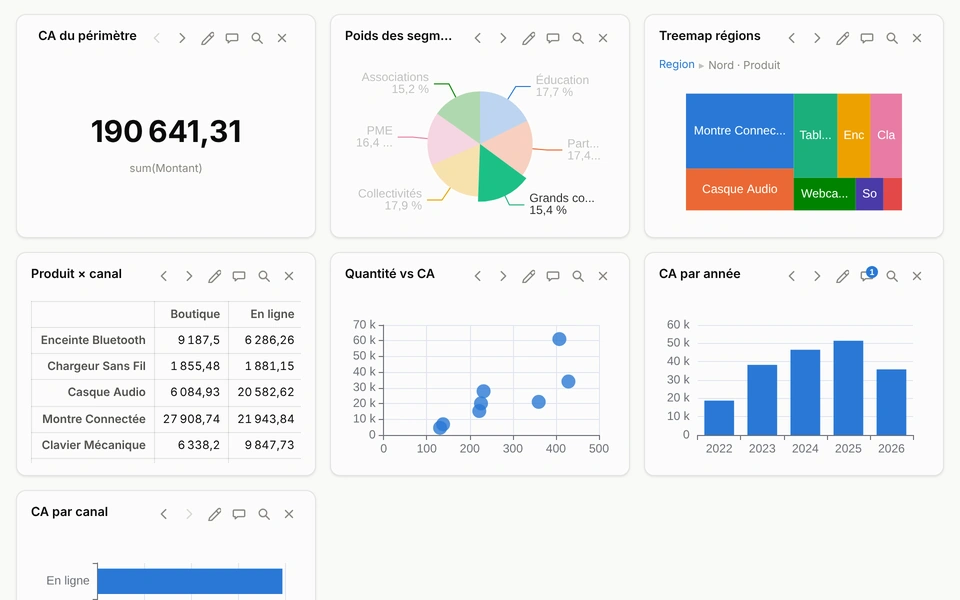
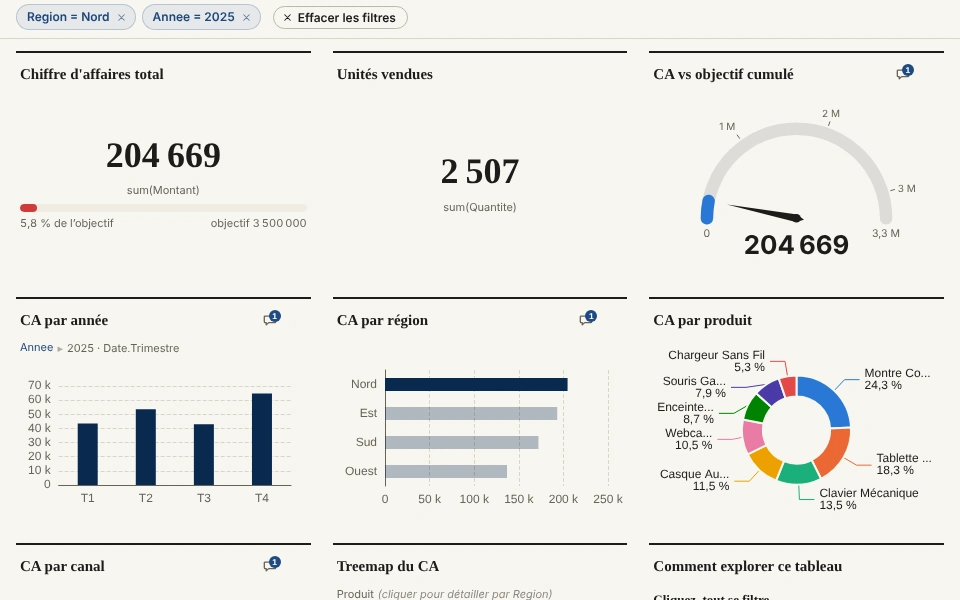
Vitrine GFS : trois captures refaites avec l'interface actuelle et des styles variés
Les trois images de vitrine/ montraient l'interface d'avant la refonte. Refaites sous
les mêmes noms et à la même taille (960 x 600, 50 à 54 Ko) : Verre dépoli + Planche,
Éditorial avec filtre croisé et drill-down, Console. Légendes 1 et 3 mises à jour dans
vitrine.json. GFS-ETAT.md dit à GFS de recopier vitrine/ (empreintes SHA-256 données) ;
HYPOTHESES.md note les choix et la réserve (faux Grist, pas un vrai).

Claude-Session: https://claude.ai/code/session_01TbSoW55bqFQ1Rzn6aBGi62

diff --git a/HYPOTHESES.md b/HYPOTHESES.md
@@ -3449,6 +3449,19 @@ Dernier lot de l'audit : tout ce qui, hors des nombres eux-mêmes, rendait une t
 - **Testé** : Node (bloc « radarNameRoom » : 7 tailles de zone, avec et sans légende, 3 à 12 axes, place bornée, le nom posé à côté de son sommet reste dans la tuile, l'ancien cas de 330 x 190) ;
   Playwright contre le vrai `index.html` + `grist-stub.js` : radar « CA par produit » en Console et en Standard (nom entier visible), radar d'orientation avec légende. **Pas testé dans un vrai Grist.**
 
+### Vitrine GFS refaite avec les styles et les dispositions (18/11/2026)
+
+- **Demande d'Antoine** : « refaire des screen pour le message du forum et les captures GFS en utilisant les styles différents ». Les trois images de `vitrine/` (remplacées une première fois le 18/11 pour la PR #53) montraient
+  encore l'interface d'AVANT la refonte (barre de menus, panneau « Ajouter », styles, dispositions) : la « Limite » notée en tête de ce journal est donc levée. Mêmes noms (`1.webp`, `2.webp`, `3.webp`), mêmes 960 x 600,
+  49 976 / 52 954 / 54 370 octets (WebP qualité 92 à 96, méthode 6), données du jeu d'exemple anonymisé (aucun nom de personne ; les commentaires sont de groupes). Prises depuis `main` à `29b7cbd` (styles #113, Soleil #112
+  et noms d'axe du radar #114 compris).
+- **Choix** : 1 = « Verre dépoli » + disposition « Planche » (vue d'ensemble : chiffres, jauge, barres, aire empilée) ; 2 = « Éditorial » en grille, clic sur « Nord » puis 2025 (filtre croisé : puces de filtre, barres non retenues grisées, drill-down
+  de l'année vers le trimestre) ; 3 = « Console » (toujours sombre, page « Analyse avancée »). L'éditorial et la console ont été préférés au verre et au fluide pour le filtre croisé : en pastel, une barre à 0,3 d'opacité se distingue à peine de
+  ses voisines. La tuile « Aire empilée » est retirée de la scène 2 (une aire filtrée sur une seule année n'a qu'un point) ; c'est un réglage de la capture, pas un défaut à corriger.
+- **Retouches de cadrage** : 960 px de large (la barre perd ses libellés, mais on ne la voit pas : la capture démarre sous elle), image coupée à la tuile, jamais mise à l'échelle ; la scène 2 démarre juste sous la barre pour ne pas montrer le bas de ses boutons.
+- **Réserve inchangée** : le vrai `index.html` + le faux Grist du dépôt, PAS un vrai Grist ; l'interface est celle qu'on verrait, le comportement de `grist.docApi` n'est pas prouvé. Les scripts de prise de vue ne sont pas committés (même règle que toute la suite
+  Playwright) ; ils sont dans le dossier partagé du projet (`forum/captures-scripts/`). Il reste à GFS de recopier `vitrine/` chez lui (voir `GFS-ETAT.md`).
+
 ### Jauge : graduations à l'extérieur de l'arc (18/11/2026)
 
 Point de départ : sur la capture « après » du lot 2 de l'audit de lisibilité, Antoine remarque que la jauge « semble perdre les graduations intermédiaires » et propose de les rajouter, « peut-être à l'extérieur ».

diff --git a/GFS-ETAT.md b/GFS-ETAT.md
@@ -320,6 +320,13 @@ Mis à jour le 2026-11-18 (consignes 019 à 021 : « Nuage de mots » branchée 
   Publipostage+ viendra par une consigne de ta part, pas avant.
 
 ## Changements qui touchent GFS
+- 2026-11-18 · **Vitrine refaite : les trois captures de `vitrine/` sont remplacées** (même dossier, mêmes noms `1.webp`, `2.webp`, `3.webp`, même taille 960 × 600, de 49 976 à 54 370 octets, donc sous les 60 Ko ;
+  `vitrine.json` : légendes 1 et 3 changées, la 2 reste vraie, description inchangée, toujours ≤ 280 / ≤ 60 signes fr/en). Les anciennes montraient l'interface d'avant la refonte ; les nouvelles montrent l'interface actuelle de `main`
+  et varient les styles d'affichage et les dispositions de page (Antoine l'a demandé : « utiliser les styles différents ») : **1** = style « Verre dépoli » en disposition « Planche » (indicateurs avec tendance et objectif, jauge, barres, aire empilée) ;
+  **2** = style « Éditorial » en grille, un clic sur « Nord » puis sur 2025 (les puces de filtre, les autres barres grisées, le drill-down de l'année vers le trimestre) ; **3** = style « Console » (toujours sombre : courbes, pile, cascade, radar, tableau croisé, cumuls).
+  **À faire côté GFS** : recopier `vitrine/` dans `prototype/vitrine/bi/` (les trois images + `vitrine.json`). Rien d'autre ne change : aucune bibliothèque, aucune adresse, aucune politique, aucun changement de table ni de format de `BI_Dashboard_Config`.
[1 lines of base64/hex data omitted]
+  **Même réserve que la fois d'avant** : prises avec le vrai `index.html` et le faux Grist du dépôt (`dev-tests/grist-stub.js`), PAS dans un vrai Grist ; données d'exemple, aucun nom de personne.
 - 2026-11-18 · `c97b614` · **« Mots-clés des PDF » branchée (consigne 019, suite).** Aucune bibliothèque ajoutée, aucune adresse, aucune entrée d'`importmap`, aucune politique de sécurité : pdf.js arrive par `GfsLink.library('pdfjs')`
   comme d3-cloud pour `nuage-de-mots`. Nouveau côté app : 4 fichiers (`js/publications.js`, `js/keywords.js` refait, `js/pdf-text.js`, `js/keywords-panel.js`), des `<script>` et une fenêtre dans `index.html`, des textes
   `keywords.*`. **Ce qui touche GFS** : (1) dans GFS, lire le PDF d'une cellule demande `getAccessToken` (lecture seule) ; sans `permissions.jeton` l'app dit « GFS_REFUSE : getAccessToken demande la capacité jeton » AVANT d'écrire quoi que ce
